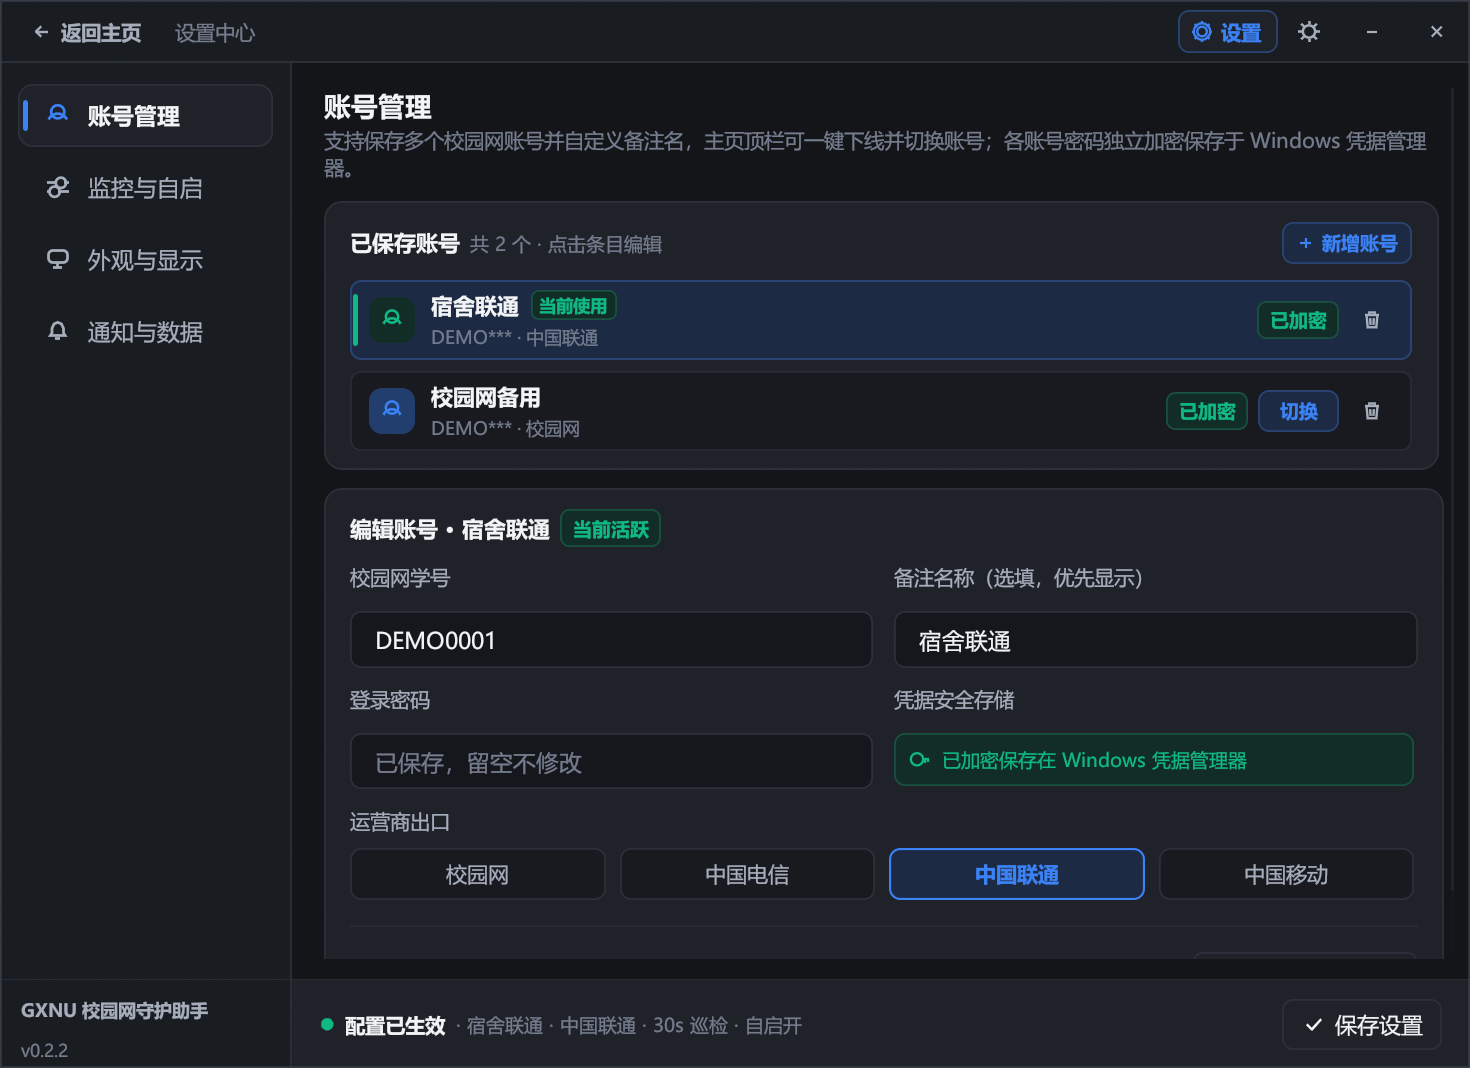
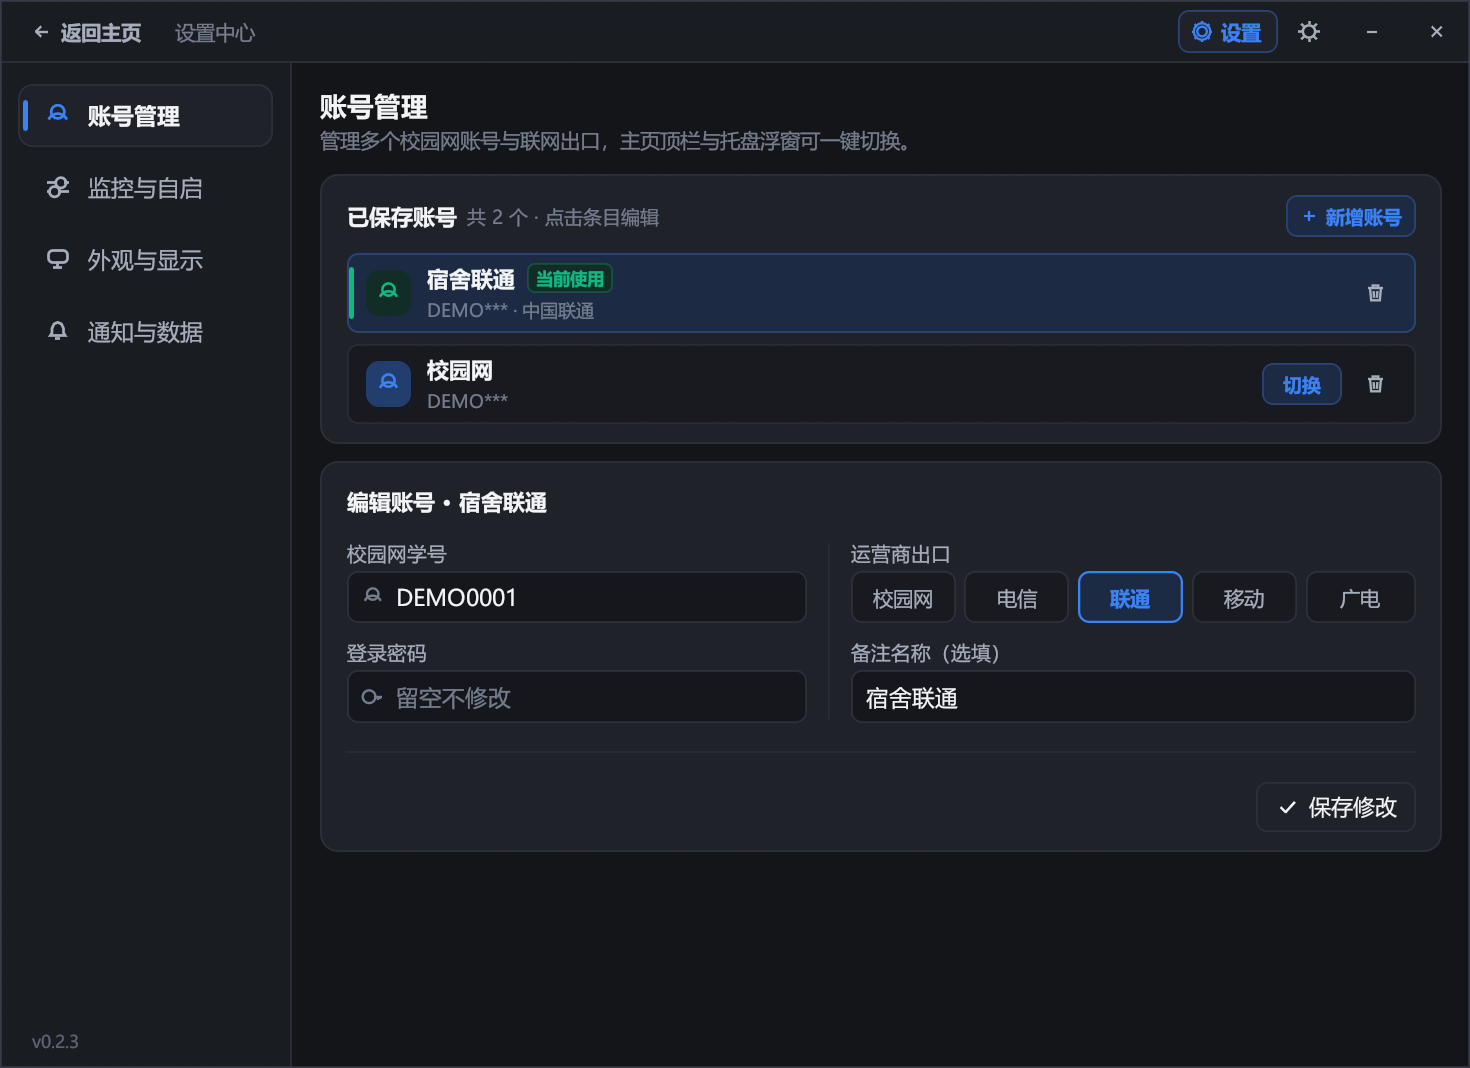
docs(v0.2.3): update bilingual README, changelog, and v0.2.3 settings screenshots

diff --git a/README.en.md b/README.en.md
@@ -12,7 +12,7 @@
   &nbsp;·&nbsp; <a href="LICENSE">MIT License</a>
 </p>
 <p align="center">
-  <sub>Windows 10 / 11 x64 · Single portable executable · Built-in auto-update · Built with Rust</sub>
+  <sub>Windows 10 / 11 x64 · Single portable executable · Built-in auto-update · Supports Campus / Telecom / Unicom / Mobile / Broadnet exits</sub>
 </p>
 
 ---
@@ -72,9 +72,9 @@
 ## 💡 Key Features
 
 - 🔄 **Seamless Auto-Reconnect**: Automatically detects drops and signs back in after sleep/wake, Wi-Fi switches, or session timeouts, with clear human-readable diagnostics.
-- 📊 **Live Traffic & Device Sign-Out**: Syncs with GXNU Self-Service to toggle **Carrier throughput / Campus quota**, deduplicate dual-BRAS sessions, and **sign out (`注销`) occupying devices** in one click.
+- 📊 **Live Traffic & Device Sign-Out**: Syncs with GXNU Self-Service to toggle **Carrier throughput / Campus quota**, inspect recent session history, deduplicate dual-BRAS sessions, and **sign out (`注销`) occupying devices** in one click.
 - ⚡ **Instant Left-click Tray Flyout**: Single-click the tray icon for a minimalist native flyout to switch accounts, inspect traffic, sign out devices, and check stability without opening the main window.
-- 👥 **Multi-Account Switch & VPN Guard**: Save multiple accounts with non-disruptive pre-save password verification; automatically warns to close VPN/proxy software before switching to the Campus (`校园网`) exit.
+- 👥 **Dual-Exit Setup, Multi-Account Switch & VPN Guard**: Pair Carrier + Campus (`校园网`) exits in one click, add extra exits for the same student ID without retyping credentials, and auto-sync password updates across peer exits; warns to close VPN/proxy software before switching to the Campus exit.
 - 📈 **Uptime Timeline**: Tracks `1h / 7h / 24h` connection stability in a capsule strip with hover details for outages.
 - ⬆ **In-Place Self-Update**: Periodically checks GitHub Releases, verifies SHA-256 checksums, and replaces the `.exe` in place while preserving all credentials and startup settings.
 - 🛡 **Proxy-Friendly & Ultra-Light**: Pierces Clash / Mihomo TUN adapters for portal probes, encrypts passwords in Windows Credential Manager, and frees all UI/GPU memory when closed to the tray.
@@ -83,9 +83,9 @@
 
 ## 🚀 Quick Start
 
-1. **Download & Run**: Grab **`gxnu-campus-net-helper-v0.2.2.exe`** from [Releases](https://github.com/junkaih2019/gxnu-campus-net-helper/releases/latest), place it in a **permanent folder**, and run it directly (no installer or extraction needed).
+1. **Download & Run**: Grab **`gxnu-campus-net-helper-v0.2.3.exe`** from [Releases](https://github.com/junkaih2019/gxnu-campus-net-helper/releases/latest), place it in a **permanent folder**, and run it directly (no installer or extraction needed).
    > 💡 If Windows SmartScreen appears on first launch, click **More info → Run anyway** (you can verify the hash against `SHA256SUMS.txt` on the release page).
-2. **Add Account**: Enter your student ID, password, and exit (`校园网` / Telecom / Unicom / Mobile / Broadnet) in **设置 → 账号管理 (Settings → Accounts)**, then click **保存并开始守护 (Save & Start)**.
+2. **Add Account**: Enter your student ID and password on the left, select your exit (`校园网 / 电信 / 联通 / 移动 / 广电`) on the right — optionally keeping **同时生成「校园网」快捷切换项** checked to pair both exits at once — and click **验证并添加账号 (Verify & Add)**; adding extra exits for the same student ID later requires no password re-entry.
 3. **Everyday Use**:
    - **Close the main window (`×`)** anytime to keep monitoring silently in the tray with minimal RAM;
    - **Left-click** the tray icon for the quick flyout, **double-click** for the main window, or **right-click** for the context menu;

diff --git a/README.md b/README.md
@@ -72,9 +72,9 @@
 ## 💡 核心功能与优势
 
 - 🔄 **断网无感重连**：自动监测网络状态，睡眠唤醒、插拔网线、切换 Wi-Fi 或认证过期时秒级自动重登；错误原因全中文直观提示。
-- 📊 **流量与在线设备管理**：直连校园网自助服务，一键切换 **运营商实际吞吐 / 校园网套餐余量**；实时展示在线终端，支持在主界面或托盘浮窗**一键注销占线设备**。
+- 📊 **流量与在线设备管理**：直连校园网自助服务，一键切换 **运营商实际吞吐 / 校园网套餐余量**；实时展示在线终端与近期上网记录浮层，支持在主界面或托盘浮窗**一键注销占线设备**。
 - ⚡ **托盘左键快捷浮窗**：单击任务栏图标秒弹原生圆角浮窗，无需打开主窗口即可切账号、看流量、踢占线设备与查看连接稳定性。
-- 👥 **多账号秒切 & 防封保护**：支持保存多个账号与自定义备注（保存前自动无损验密）；切换到「校园网」出口前自动弹出 VPN / 代理关闭提醒，防止账号被封禁。
+- 👥 **多账号 / 双出口秒切 & 防封保护**：支持一键生成共享密码的「宽带 + 校园网」双出口、同号免输新增出口与改密自动同步（保存前自动无损验密）；切换到「校园网」出口前自动提醒关闭 VPN / 代理，防止账号被封禁。
 - 📈 **连接稳定性时间轴**：以 `1h / 7h / 24h` 胶囊时间轴记录在线率，悬停黄格即可查看掉线时刻与原因。
 - ⬆ **应用内原位自动更新**：自动检查 GitHub Release 新版本，点击即可完成 SHA-256 校验下载并原位替换重启，无损保留全部账号与自启设置。
 - 🛡 **代理兼容 & 极轻常驻**：开启 Clash / Mihomo（含 TUN 模式）照常直连认证；密码加密存入 Windows 凭据管理器；关闭主窗口即释放全部 GUI 内存，后台仅保留纯 Win32 轻守护。
@@ -83,9 +83,9 @@
 
 ## 🚀 快速开始
 
-1. **下载运行**：前往 [Releases](https://github.com/junkaih2019/gxnu-campus-net-helper/releases/latest) 下载最新单文件 **`gxnu-campus-net-helper-v0.2.2.exe`**，放入**固定文件夹**后直接双击运行（免安装、免解压）。
+1. **下载运行**：前往 [Releases](https://github.com/junkaih2019/gxnu-campus-net-helper/releases/latest) 下载最新单文件 **`gxnu-campus-net-helper-v0.2.3.exe`**，放入**固定文件夹**后直接双击运行（免安装、免解压）。
    > 💡 首次运行若弹出 Windows SmartScreen 提示，点击 **更多信息 → 仍要运行** 即可（个人开源单文件未附商业代码签名，可通过随附 `SHA256SUMS.txt` 校验完整性）。
-2. **添加账号**：首次启动会自动打开 **设置 → 账号管理**，填入校园网学号、密码并选择出口（校园网 / 电信 / 联通 / 移动 / 广电），点击 **保存并开始守护**。
+2. **添加账号**：首次启动会自动打开 **设置 → 账号管理**，在左侧填入校园网学号与密码，右侧点选出口（`校园网 / 电信 / 联通 / 移动 / 广电`，选运营商时可勾选同时生成「校园网」快捷切换项），点击 **验证并添加账号** 即可开始守护；后续为同一学号补充其他出口无需重复输入账密。
 3. **日常使用**：
    - **平时直接关闭主窗口（`×`）**，程序会在系统托盘极轻常驻；
    - **左键单击**托盘图标秒开快捷浮窗，**左键双击**打开完整主窗口，**右键单击**呼出快捷菜单；

diff --git a/CHANGELOG.md b/CHANGELOG.md
@@ -1,5 +1,16 @@
 # 更新记录
 
+## v0.2.3 · 2026-11-23
+
+新增广电网络出口、重构账号管理双态对称表单，并优化同号多出口联动与日常细节体验。
+
+- **新增「广电网络」出口支持**：全面适配师大认证门户 `广电网络`（`R3=4`），认证链路、账号管理、主页顶栏与托盘快捷浮窗同步支持全部 5 种联网出口（校园网 / 中国电信 / 中国联通 / 中国移动 / 广电网络）。
+- **一键双出口配对 & 同号免输加出口**：首次或新增运营商账号时可勾选同时生成共享密码的「校园网」快捷切换项；已有账号点击 `+ 新增账号` 默认进入免填学号密码的「为当前学号新增出口」视图，修改密码时自动同步同号其他出口凭据；同号多出口未填备注时自动按出口名称智能区分。
+- **账号管理对称双栏重构与设置页减负**：将账号表单重构为「左填凭据 · 右选 5 等分对称出口」双栏布局，去除冗余状态大框与重复加密徽章；设置中心改为按需浮现的底部胶囊保存栏与左下角极简版本号水印，锁定卡片等宽外边距。
+- **近期上网记录浮层 & 日志精准定位**：主页在线设备卡「近期记录」支持点击展开独立浮层并按最新下线时间倒序展示会话明细；点击打开日志时直接在资源管理器中高亮选中 `app.log`。
+
+---
+
 ## v0.2.2 · 2026-11-22
 
 围绕日常高频体验打磨：支持托盘浮窗切号、在线设备一键注销、应用内自动更新与更直观的中文错误提示。

diff --git a/docs/CONFIGURATION.md b/docs/CONFIGURATION.md
@@ -50,7 +50,7 @@
 
 | 字段 | 类型 | 合法范围 | 默认值 | 说明 |
 | :--- | :--- | :--- | :--- | :--- |
-| `accounts` | array | — | `[]` | 多账号配置列表，每项包含 `id`、`remark`（备注名）、`student_id`、`carrier`（`"0"` 校园网 / `"1"` 中国电信 / `"2"` 中国联通 / `"3"` 中国移动 / `"4"` 广电网络）、`monthly_quota_gb`；旧版单账号配置启动时自动迁入 |
+| `accounts` | array | — | `[]` | 多账号配置列表，每项包含 `id`、`remark`（备注名，留空且同一学号配置多出口时自动按出口名称显示）、`student_id`、`carrier`（`"0"` 校园网 / `"1"` 中国电信 / `"2"` 中国联通 / `"3"` 中国移动 / `"4"` 广电网络）、`monthly_quota_gb`；同一学号修改密码时自动同步该学号下其余出口的加密凭据；旧版单账号配置启动时自动迁入 |
 | `active_account_id` | string | — | `""` | 当前活跃账号的 `id` |
 | `student_id` / `carrier` / `monthly_quota_gb` | — | — | — | 当前活跃账号的镜像字段（向后兼容旧版配置） |
 | `check_interval` | integer | `10` ~ `3600` | `30` | 在线巡检间隔（秒） |
